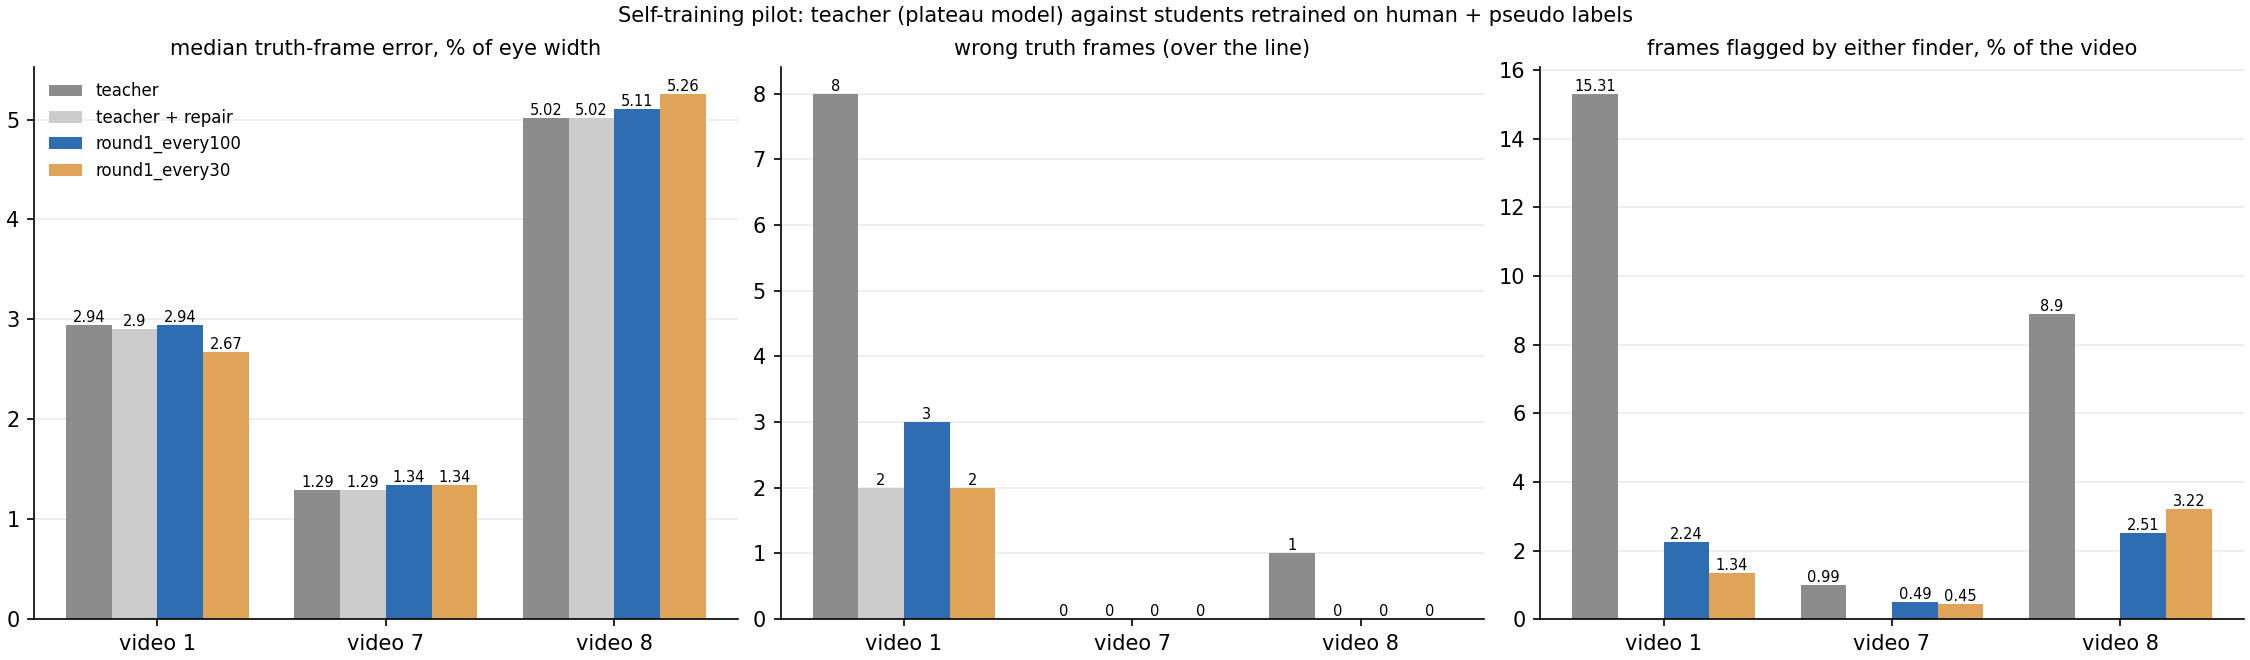
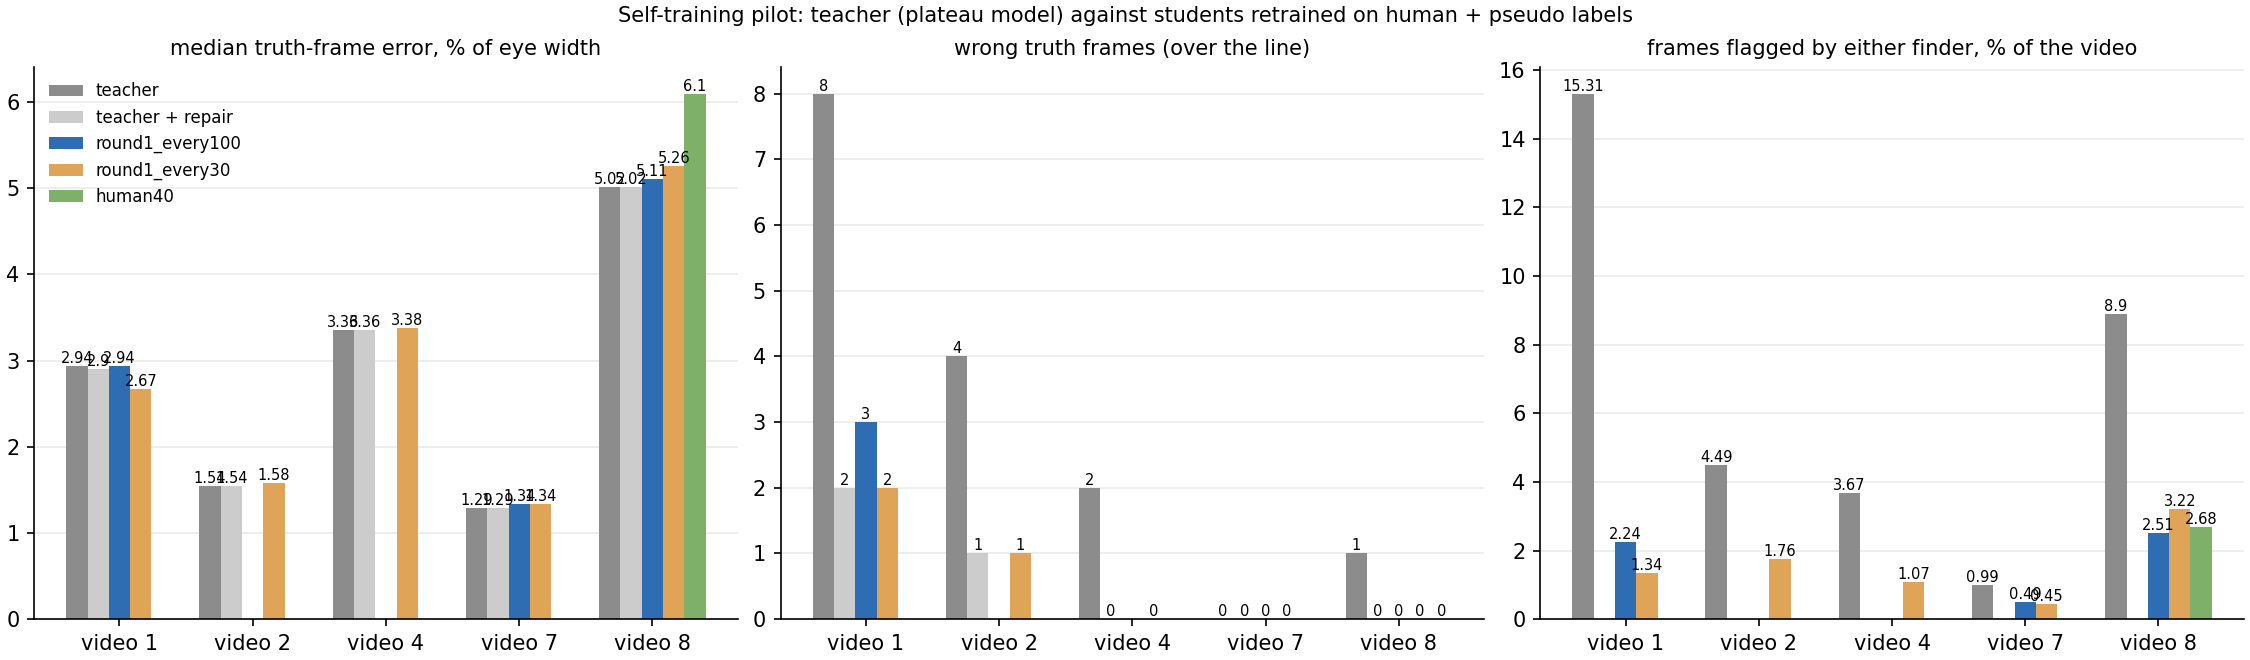
self-training: video 4 every30 student; comparison with videos 2, 4 and the 40-label control; README updated

diff --git a/v2_new_pupil_top_video_scaling/scripts/self_training.py b/v2_new_pupil_top_video_scaling/scripts/self_training.py
@@ -455,8 +455,8 @@ def compare():
                     "p90_error_pct": round(100 * float(T.error_after.quantile(0.9)), 2), "wrong_frames": int((T.error_after > LINE).sum()),
                     "flagged_not_repaired_pct": W.flagged_not_repaired_pct})
     E = pd.concat([E, pd.DataFrame(ref)], ignore_index=True)
-    order = {"teacher": 0, "teacher + repair": 1}
-    E["o"] = E.model.map(lambda m: order.get(m, 2 + int(re.search(r"round(\d+)", m).group(1)) * 10 + VARIANT.get(int(re.search(r"every(\d+)", m).group(1)), 9)) if "round" in m else order[m])
+    order = {"teacher": 0, "teacher + repair": 1, "human40": 90}
+    E["o"] = E.model.map(lambda m: 2 + int(re.search(r"round(\d+)", m).group(1)) * 10 + VARIANT.get(int(re.search(r"every(\d+)", m).group(1)), 9) if "round" in m else order.get(m, 95))
     E = E.sort_values(["video", "o"]).drop(columns="o")
     E.to_csv(OUT / "comparison.csv", index=False)
     show = ["video", "model", "median_error_pct", "p90_error_pct", "wrong_frames", "test50_median_px", "flagged_fit_pct", "flagged_pca_pct", "flagged_either_pct"]
@@ -465,7 +465,7 @@ def compare():
     import matplotlib
     matplotlib.use("Agg")
     import matplotlib.pyplot as plt
-    models = [m for m in ["teacher", "teacher + repair"] + sorted({m for m in E.model if "round" in m}) if m in set(E.model)]
+    models = [m for m in ["teacher", "teacher + repair"] + sorted({m for m in E.model if "round" in m}) + ["human40"] if m in set(E.model)]
     cols = {"teacher": "0.55", "teacher + repair": "0.8"}
     palette = ["#2f6db3", "#e0a458", "#7fb069", "#d1495b", "#8e6c8a"]
     for m in models:

diff --git a/v2_new_pupil_top_video_scaling/results/self_training/README.md b/v2_new_pupil_top_video_scaling/results/self_training/README.md
@@ -3,16 +3,18 @@
 Direction 3 of the 2026-10-31 meeting: retrain the plateau model of a video on its own human labels plus
 pseudo labels taken from its own predictions on frames the final pipeline passed, and see whether the retrained
 model (the student) makes fewer wrong frames than the plateau model (the teacher). Design in
-`docs/next_phase_analysis_2026-10-31.md`, section 3.3. Script: `scripts/self_training.py`. Run on 2026-11-02 and
-2026-11-03 on the Mac (mps).
+`docs/next_phase_analysis_2026-10-31.md`, section 3.3. Script: `scripts/self_training.py`. Run on 2026-11-02 to
+2026-11-04 on the Mac (mps): videos 1, 7 and 8 with both pseudo densities first, then videos 2 and 4 with the denser
+one only. Videos 10 and 11 were planned for the same night and not started, because the driver does not start a
+video that cannot finish before the morning deadline.
 
 ## Basic information
 
 | item | value |
 |---|---|
-| videos | 1 and 8 (hard, many flagged frames), 7 (clean control) |
-| teacher | the plateau model of each video: video 1 shuffle 211, video 7 shuffle 811, video 8 shuffle 911 |
-| teacher training set | video 1: 120 human frames (100 of video 0 plus 20 of video 1); videos 7 and 8: 420 human frames (prior videos plus 20 of the video itself); 20 validation frames each |
+| videos | 1 and 8 (hard, many flagged frames), 7 (clean control); then 2 and 4 (every30 only) |
+| teacher | the plateau model of each video: video 1 shuffle 211, video 2 shuffle 321, video 4 shuffle 532, video 7 shuffle 811, video 8 shuffle 911 |
+| teacher training set | video 1: 120 human frames (100 of video 0 plus 20 of video 1); video 2: 220 (prior videos plus 20 of itself); video 4: 360 (prior videos plus 40 of itself); videos 7 and 8: 420 (prior videos plus 20 of the video itself); 20 validation frames each |
 | pseudo labels | the teacher's own coordinates after the final pipeline (`flag_and_repair.py --finder either --accept labelregion --points all --replace smallest`) on every 30th frame (variant every30) or every 100th frame (variant every100) |
 | frames excluded from pseudo labels | frames the pipeline could not pass, and 60 frames on each side of the 70 truth frames |
 | per-point filter | a point is dropped when its likelihood is under 0.01, its fitting deviation is over the video's threshold, or its PCA residual is over the video's PCA threshold; a frame is kept when all four pupil points and at least six points remain |
@@ -20,7 +22,8 @@ model (the student) makes fewer wrong frames than the plateau model (the teacher
 | recipe | same as the plateau models: ResNet-50, batch 2, seed 42, two learning-rate drops at 80 and 95 percent of the epochs; epochs chosen so the number of iterations matches the teacher's |
 | shuffle numbers | 4000 + 10 x video + 1 (every30) or + 2 (every100) |
 | evaluation | one code path for teacher and student on whole-video predictions: error on the 70 truth frames as RMSE over the labeled points divided by the teacher's median eye width, wrong = over 0.14 eye widths; test50 median pixel RMSE; share of the video flagged by the fitting finder and by the PCA finder (same thresholds as the pipeline) |
-| time per student | training 22 min (video 1) or 75 min (videos 7, 8); whole-video prediction 87 to 90 min |
+| time per student | training 22 min (video 1), 40 min (video 2), 66 min (video 4) or 75 min (videos 7, 8); whole-video prediction 87 to 90 min |
+| human-label control | the 40-label model of video 8 (shuffle 912, prediction from the plateau run) evaluated on the same code path, row "human40" |
 
 The every100 variant stands in for the "pseudo labels at 0.3 loss weight" variant of the design: DeepLabCut's loss
 has no per-image weight, and a pseudo set about a third as dense is the SGD equivalent of weighting each pseudo
@@ -32,13 +35,16 @@ frame by about a third.
 |---|---|---|---|---|---|---|---|
 | 1 | every30 | 1935 | 1784 | 151 | 8 | 825 | 14255 |
 | 1 | every100 | 583 | 544 | 39 | 4 | 200 | 4345 |
+| 2 | every30 | 2065 | 2020 | 45 | 10 | 200 | 16144 |
+| 4 | every30 | 2068 | 1725 | 343 | 5 | 758 | 13738 |
 | 7 | every30 | 2095 | 2030 | 65 | 0 | 91 | 16239 |
 | 7 | every100 | 628 | 609 | 19 | 3 | 25 | 4872 |
 | 8 | every30 | 1988 | 1829 | 159 | 2 | 431 | 14623 |
 | 8 | every100 | 600 | 552 | 48 | 1 | 125 | 4411 |
 
 No point was dropped for low likelihood. The PCA filter removes far more points than the fitting filter; on the
-clean video 7 it removes almost nothing. Full tables: `videoNN/pseudo_everyNN/pseudo_summary.csv`,
+clean video 7 it removes almost nothing. Video 4 loses the most frames (343 of 2068): its PCA threshold is
+the widest of the five videos and its per-point PCA residuals are often over it. Full tables: `videoNN/pseudo_everyNN/pseudo_summary.csv`,
 `pseudo_frames.csv`, `pseudo_labels.csv`.
 
 ## Student models
@@ -47,6 +53,8 @@ clean video 7 it removes almost nothing. Full tables: `videoNN/pseudo_everyNN/ps
 |---|---|---|---|---|---|---|
 | 1 | every30 | 120 | 1784 | 8 | 7616 | 7200 |
 | 1 | every100 | 120 | 544 | 22 | 7304 | 7200 |
+| 2 | every30 | 220 | 2020 | 12 | 13440 | 13200 |
+| 4 | every30 | 360 | 1725 | 21 | 21903 | 21600 |
 | 7 | every30 | 420 | 2030 | 21 | 25725 | 25200 |
 | 7 | every100 | 420 | 609 | 48 | 24720 | 25200 |
 | 8 | every30 | 420 | 1829 | 22 | 24750 | 25200 |
@@ -56,6 +64,8 @@ clean video 7 it removes almost nothing. Full tables: `videoNN/pseudo_everyNN/ps
 
 `comparison.csv`, `comparison.png`. The "teacher + repair" row is the pipeline's output on the teacher's
 predictions (from the committed `truth_frames.csv` of each video); it has no whole-video flagged share of its own.
+The "human40" row of video 8 is the model trained with 40 instead of 20 labels of the video (shuffle 912, no pseudo
+labels), the control for "more human labels instead of self-training".
 
 | video | model | median error, % eye width | p90 | wrong of 70 | test50 median px | flagged fitting % | flagged PCA % | flagged either % |
 |---|---|---|---|---|---|---|---|---|
@@ -63,6 +73,12 @@ predictions (from the committed `truth_frames.csv` of each video); it has no who
 | 1 | teacher + repair | 2.90 | 5.43 | 2 | | | | |
 | 1 | every30 | 2.67 | 5.91 | 2 | 10.89 | 1.33 | 0.78 | 1.34 |
 | 1 | every100 | 2.94 | 4.90 | 3 | 10.98 | 2.09 | 1.62 | 2.24 |
+| 2 | teacher | 1.54 | 5.19 | 4 | 7.73 | 4.17 | 2.75 | 4.49 |
+| 2 | teacher + repair | 1.54 | 4.40 | 1 | | | | |
+| 2 | every30 | 1.58 | 3.35 | 1 | 7.91 | 1.65 | 0.99 | 1.76 |
+| 4 | teacher | 3.36 | 6.13 | 2 | 15.01 | 3.56 | 1.55 | 3.67 |
+| 4 | teacher + repair | 3.36 | 6.01 | 0 | | | | |
+| 4 | every30 | 3.38 | 5.38 | 0 | 16.36 | 0.98 | 0.60 | 1.07 |
 | 7 | teacher | 1.29 | 1.80 | 0 | 5.86 | 0.65 | 0.82 | 0.99 |
 | 7 | teacher + repair | 1.29 | 1.72 | 0 | | | | |
 | 7 | every30 | 1.34 | 1.77 | 0 | 5.97 | 0.35 | 0.40 | 0.45 |
@@ -71,19 +87,27 @@ predictions (from the committed `truth_frames.csv` of each video); it has no who
 | 8 | teacher + repair | 5.02 | 11.69 | 0 | | | | |
 | 8 | every30 | 5.26 | 11.53 | 0 | 26.04 | 3.16 | 1.12 | 3.22 |
 | 8 | every100 | 5.11 | 11.63 | 0 | 30.06 | 2.46 | 1.07 | 2.51 |
+| 8 | human40 | 6.10 | 11.76 | 0 | 30.03 | 2.54 | 1.44 | 2.68 |
 
 What the table says:
 
 - The median truth-frame error of every student is within half a percent of eye width of its teacher. Pseudo
-  labels did not change the typical accuracy, in either direction, on any of the three videos.
+  labels did not change the typical accuracy, in either direction, on any of the five videos.
 - The wrong frames are where the students differ from their teachers. On video 1 the teacher has eight wrong
   truth frames; the every30 student has two, the every100 student three. Six of the teacher's eight are fixed by the
   every30 student, with errors falling from a fifth or a third of the eye width to a few percent; the frame with the
   largest error is only partly fixed. The student reaches the same wrong count as the pipeline's repair of the
   teacher's output, without any repair. On video 8 the teacher's one wrong frame is gone in both students. On
-  video 7 nothing was wrong before and nothing is wrong after.
-- The share of the video flagged by the two finders falls to a half (video 7) or to a third or less (videos 1
-  and 8) in every student.
+  video 7 nothing was wrong before and nothing is wrong after. Video 2: four wrong frames become one, and video 4:
+  two become zero.
+- Student and repair fix the same frames. On video 1 the student fixes the six frames the repair fixes and leaves
+  the same two (61431, 62186). On video 2 the student fixes the three frames the repair fixes and leaves the same one
+  (67793, a third of the eye width off in both). On video 4 both fix both. On the truth frames, self-training and the
+  repair pipeline are so far redundant; neither reaches the frames the other misses.
+- The 40-label control on video 8 (human40) also has zero wrong frames, with a higher median error than the
+  20-label teacher and the students. Twenty more human labels and self-training reach the same wrong count here.
+- The share of the video flagged by the two finders falls to a half (video 7) or to a third or less (videos 1,
+  2, 4 and 8) in every student.
 - The denser pseudo set (every30) is at least as good as the sparser one (every100) on all three videos.
 
 Per truth frame: `videoNN/<model>/truth_errors.csv`.
@@ -105,9 +129,13 @@ Per truth frame: `videoNN/<model>/truth_errors.csv`.
 
 ## Status
 
-Round 1 is complete on all three videos and two variants. Round 2 (pseudo labels from the student) was not
-started; the design asked for a second round only when the first lowers the median error and the wrong count,
-which happened on video 1 only. The decision is open for the next meeting.
+Round 1 is complete on videos 1, 7 and 8 with two variants and on videos 2 and 4 with every30. Videos 10 and 11
+are not run. Round 2 (pseudo labels from the student) was not started; the design asked for a second round only
+when the first lowers the median error and the wrong count, which happened on video 1 only. The decision is open
+for the next meeting. Because the finders are self-consistency measures and the truth frames are the plateau
+validation and test frames, a blind, independently labeled test set is being built for videos 1 and 8
+(`results/blind_test/`, script `scripts/blind_test_set.py`) to score teacher, repair, students and the 40-label
+control with paired per-frame errors.
 
 ## Files
 
@@ -117,6 +145,7 @@ which happened on video 1 only. The decision is open for the next meeting.
   `local_data/self_training/` (not committed)
 - `videoNN/teacher/`, `videoNN/round1_everyNN/`: `eval.csv`, `truth_errors.csv`, `train_info.csv`
 - `comparison.csv`, `comparison.png`
-- logs: `round1.log`, `train_v*_every*.log`, `eval_v*_every*.log`, `pseudo_all.log` (not committed)
+- `video08/human40/`: the 40-label control's `eval.csv`, `truth_errors.csv`
+- logs: `round1.log`, `round1b.log`, `train_v*_every*.log`, `eval_v*_every*.log`, `pseudo_all.log` (not committed)
 - models: `dlc_projects/.../dlc-models-pytorch/iteration-0/*shuffle40NN`; whole-video predictions in
   `local_data/self_training/videoNN/round1_everyNN/predictions/`
